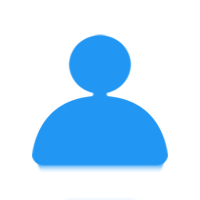
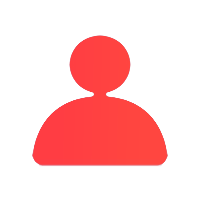
换色

Changed region(s): [[0.15, 0.15, 0.84, 0.87]]

diff --git a/pages/user/user.js b/pages/user/user.js
@@ -1,4 +1,5 @@
 // pages/user/user.js
+var url = require('../../config.js')
 var app = getApp()
 Page({
 
@@ -12,12 +13,13 @@ Page({
     hasUserInfo: false,
     canIUse: wx.canIUse('button.open-type.getUserInfo'),
     isboundUser:'绑定学号',
+    platUserInfoMap:{},
   },
 
   /**
    * 生命周期函数--监听页面加载
    */
-  onLoad: function (options) {
+  onLoad: function () {
     wx.setStorageSync('GradualNum', 0);
     if (app.globalData.userInfo) {
       this.setData({
@@ -48,13 +50,15 @@ Page({
  
   },
   getUserInfo: function (e) {
-    console.log(e)
+    var that=this;
+    console.log(e);
+
     app.globalData.userInfo = e.detail.userInfo
     this.setData({
       userInfo: e.detail.userInfo,
       hasUserInfo: true
-    })
-  },
+    }) 
+},
  //绑定页面
   binding:function(){
     // console.log('12321313');
@@ -70,7 +74,7 @@ Page({
   onReady: function () {
     var that = this;
     var GradualNum = wx.getStorageSync('GradualNum');
-    console.log(GradualNum);
+    // console.log(GradualNum);
     if (GradualNum) {
       that.setData({
         GradualNum: GradualNum
@@ -82,9 +86,9 @@ Page({
    * 生命周期函数--监听页面显示
    */
   onShow: function () {
-    console.log('123');
+    // console.log('123');
     console.log(wx.getStorageSync('isbound'));
-    if (wx.getStorageSync('isbound') == '1') {
+    if (wx.getStorageSync('isbound') == 1 ) {
       this.setData({
         isboundUser: '已绑定学号'
       })

diff --git a/app.js b/app.js
@@ -28,7 +28,7 @@ App({
               var platUserInfoMap = that.globalData.platUserInfoMap;
               platUserInfoMap["encryptedData"] = userResult.encryptedData;
               platUserInfoMap["iv"] = userResult.iv;
-              console.log(platUserInfoMap);
+              // console.log(platUserInfoMap);
               // console.log(JSON.stringify(data));
                wx.request({
                  url: url.loginUrl,
@@ -50,6 +50,7 @@ App({
                    wx.setStorageSync("avatar", res.data.avatar)
                    wx.setStorageSync("userKey", res.data.userKey)
                    wx.setStorageSync("authorization", res.data.authorization)
+                   wx.setStorageSync("userId", res.data.userId)
                    console.log(res)
                  }
                })

diff --git a/config.js b/config.js
@@ -6,9 +6,9 @@
 // var host = "http://192.168.0.188:8086/"
 //var host = "http://192.168.0.188:8080/"
 //开发
-var host = "http://192.168.1.101:8080/com.crazyBird"  
+// var host = "http://192.168.1.101:8080/com.crazyBird"  
 //正式
-// var host = "https://www.sxscott.com/crazyBird"
+var host = "https://www.sxscott.com/crazyBird"
 
 //本地
 //var host ="http://smartdove.iask.in:17946/api"

diff --git a/pages/user/binding/binding.js b/pages/user/binding/binding.js
@@ -15,7 +15,7 @@ Page({
    * 生命周期函数--监听页面加载
    */
   onLoad: function(options) {
-    console.log(wx.getStorageSync("authorization"));
+    // console.log(wx.getStorageSync("authorization"));
   },
 
   /**
